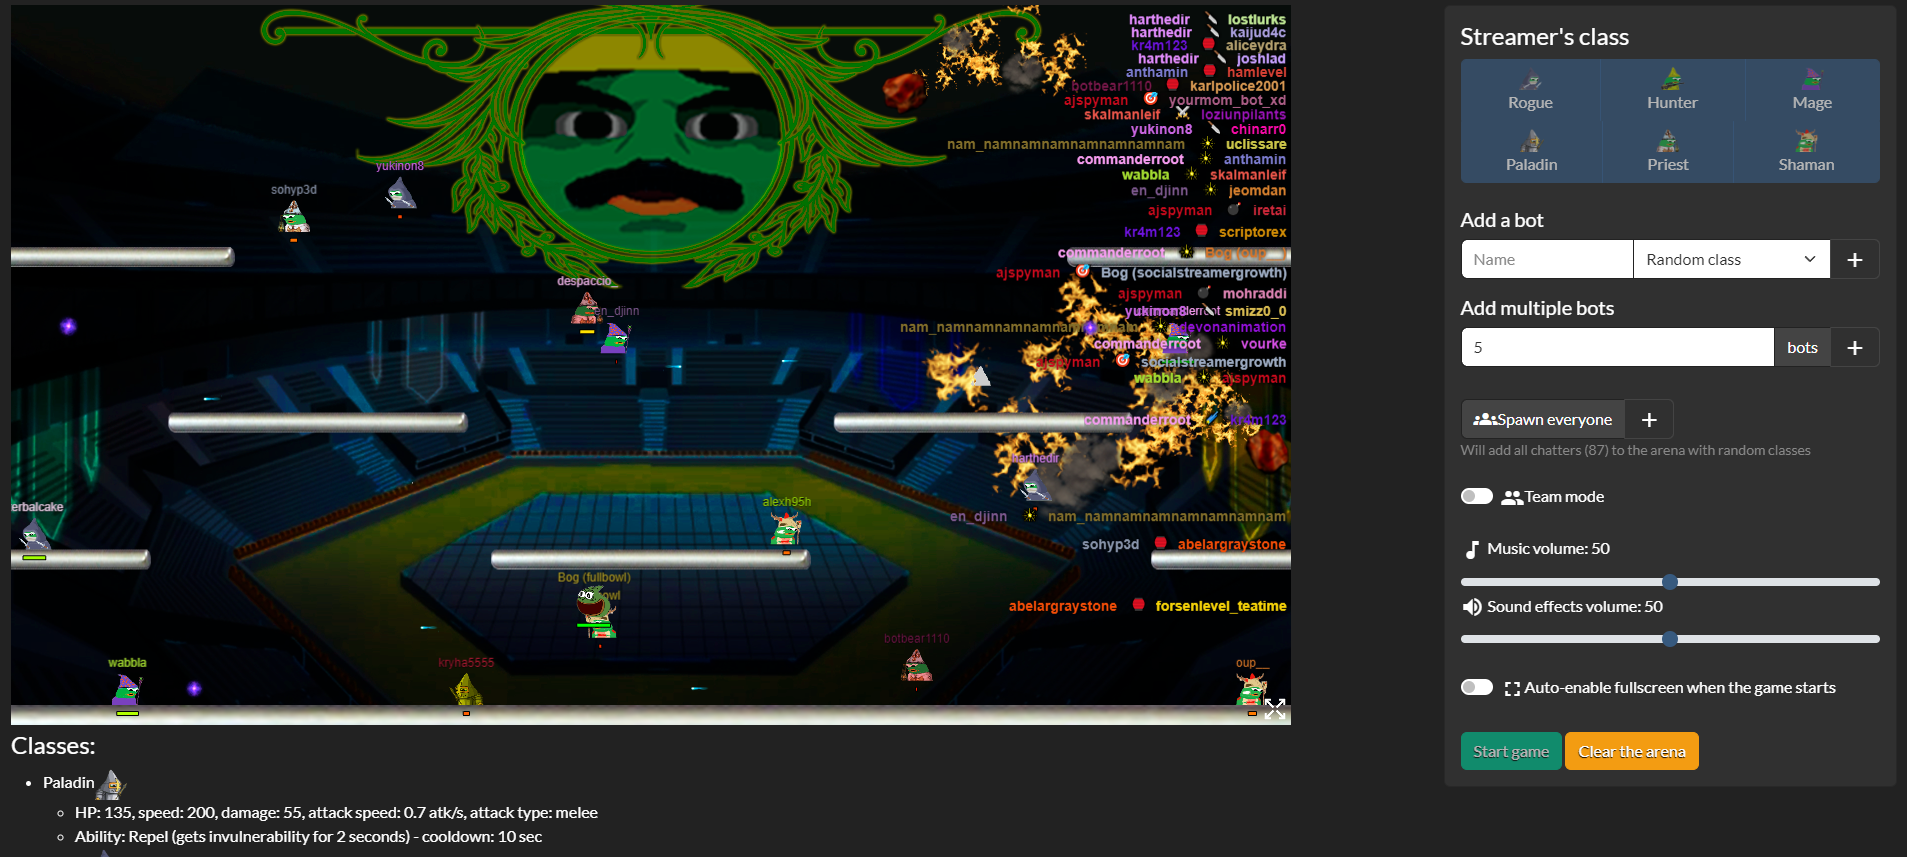
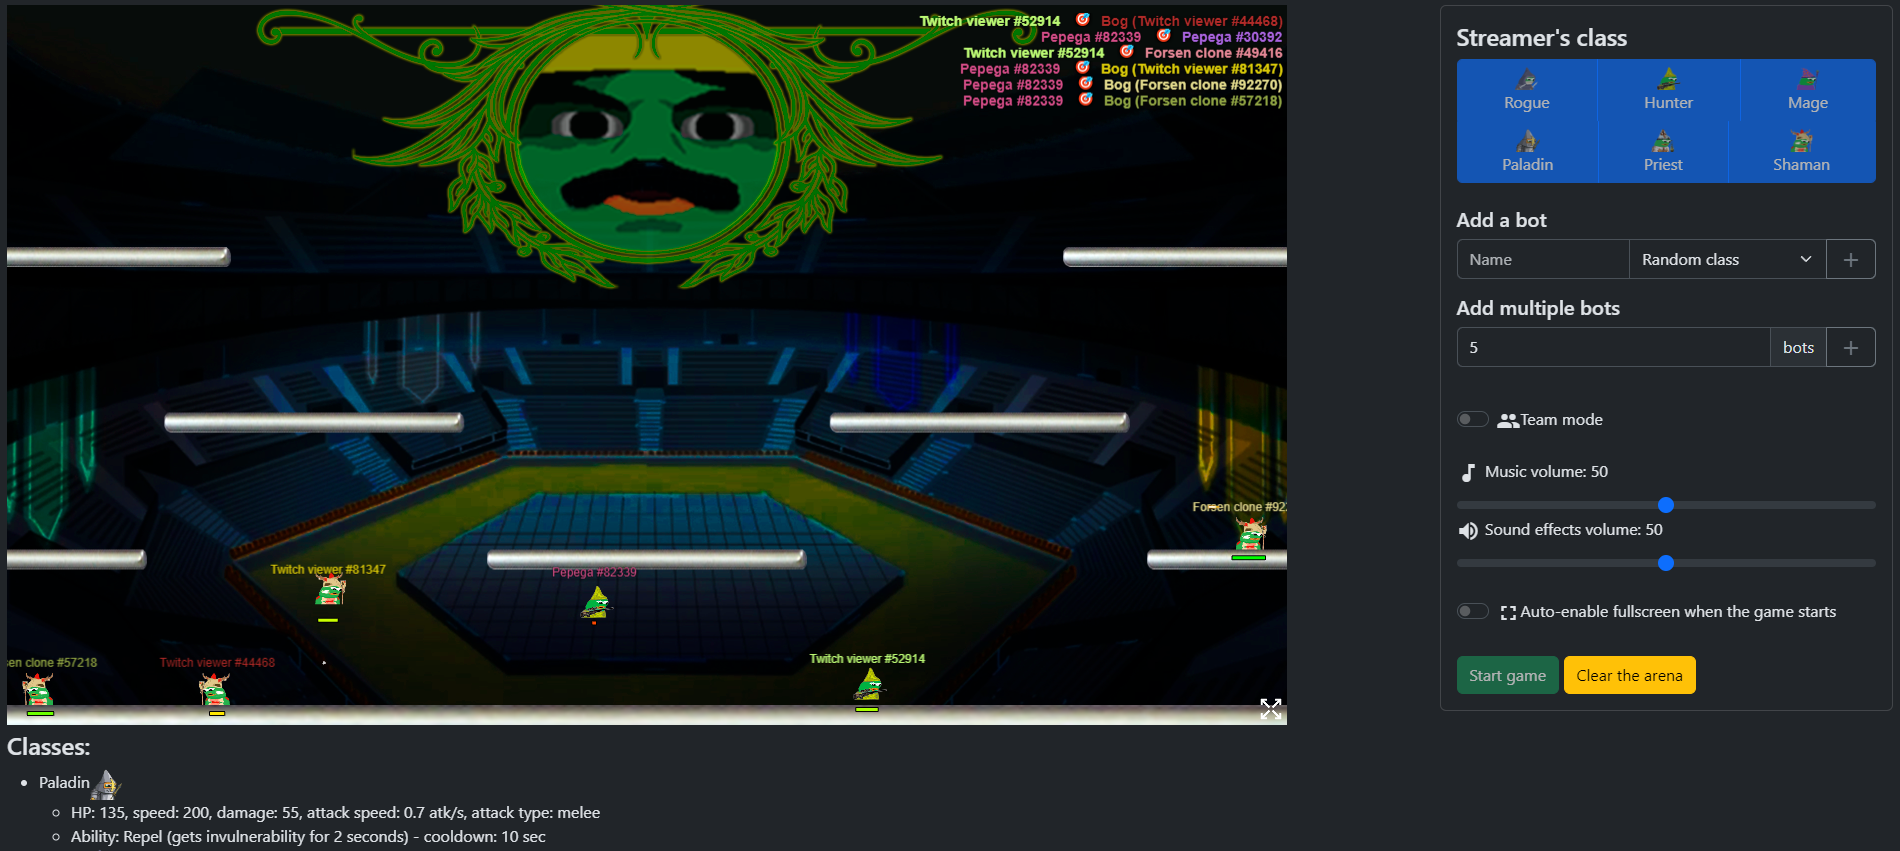
update games screenshots
also update toasts :)

diff --git a/games/donkhunt/donkhunt.min.css b/games/donkhunt/donkhunt.min.css
@@ -1,1 +1,1 @@
[2 lines of base64/hex data omitted]

diff --git a/games/shapes/shapes.min.css b/games/shapes/shapes.min.css
@@ -1,1 +1,1 @@
[2 lines of base64/hex data omitted]

diff --git a/games/connect4/connect4.min.css b/games/connect4/connect4.min.css
@@ -1,1 +1,1 @@
-body{margin-bottom:300px}#gameName{text-align:center;vertical-align:middle;margin-left:35vw}.card-img-top{cursor:pointer;width:100%;height:230px}#toastContainer{z-index:1056;position:fixed;top:1%;width:15vw}.resizable{display:inline-block;resize:both;overflow:hidden;line-height:0}.resizable img{height:100%}.custom-popover{--bs-popover-border-color:var(--bs-warning);--bs-popover-header-bg:var(--bs-warning);--bs-popover-header-color:var(--bs-white)}.tooltip.show{opacity:1}#c4chartdiv{position:relative;height:80vh;width:100%}#c4overlay{width:100%;height:100%;position:absolute}.coins{position:relative;width:700px;height:600px;background:#969696;overflow:hidden}.coin,.control{width:100px;height:100px;position:absolute;left:0;top:-100px;transition:top .2s ease-in;-moz-transition:top .2s ease-in;-webkit-transition:top .2s ease-in}.coin:before,.control:before{content:"";position:absolute;left:10px;top:10px;width:80px;height:80px;border-radius:50%;box-shadow:1px 1px 2px rgba(0,0,0,.3);-moz-box-shadow:1px 1px 2px rgba(0,0,0,.3);-webkit-box-shadow:1px 1px 1px rgba(0,0,0,.1)}.coin:after,.control:after{content:"";position:absolute;left:20px;top:20px;width:60px;height:60px;border-radius:50%;background:rgba(0,0,0,.2);box-shadow:inset 1px 1px 2px rgba(0,0,0,.3);-moz-box-shadow:inset 1px 1px 2px rgba(0,0,0,.3);-webkit-box-shadow:inset 1px 1px 2px rgba(0,0,0,.3)}.coin.row-0,.control.row-0{top:0}.coin.row-1,.control.row-1{top:100px}.coin.row-2,.control.row-2{top:200px}.coin.row-3,.control.row-3{top:300px}.coin.row-4,.control.row-4{top:400px}.coin.row-5,.control.row-5{top:500px}.coin.col-1,.control.col-1{left:100px}.coin.col-2,.control.col-2{left:200px}.coin.col-3,.control.col-3{left:300px}.coin.col-4,.control.col-4{left:400px}.coin.col-5,.control.col-5{left:500px}.coin.col-6,.control.col-6{left:600px}.coin.chat:before,.control.chat:before{background:#22b14c}.coin.streamer:before,.control.streamer:before{background:#fff200}.coin.connected:after,.control.connected:after{background:rgba(255,255,255,.6)}.control.streamer:hover{opacity:1}.control.chat{opacity:.5;top:0}.control.streamer{opacity:.5;top:0;cursor:pointer}#board>div>div.overlay>img{filter:invert(27%) sepia(9%) saturate(6191%) hue-rotate(182deg) brightness(99%) contrast(86%)}.collabel{font-size:1.5em;color:#000000;font-weight:bold}.collabel2{font-size:1.5em;color:#000000;font-weight:bold;position:absolute;margin-top:670px;margin-left:-15px}.overlay{z-index:100;position:absolute}.overlaytext{position:relative;top:50%;font-size:2vw;text-shadow:-4px 4px 4px #000000;box-shadow:none!important}.centertext{text-align:center}.blur{-webkit-filter:blur(10px) grayscale(100%);-moz-filter:blur(10px) grayscale(100%);-o-filter:blur(10px) grayscale(100%);-ms-filter:blur(10px) grayscale(100%);filter:blur(10px) grayscale(100%);position:absolute}.rack{display:inline-block;border:2px solid black}.rack *{box-sizing:border-box;-ms-box-sizing:border-box;-moz-box-sizing:border-box;-webkit-box-sizing:border-box}.controls,.message{position:relative;width:700px;height:100px;background:#aaaaaa;visibility:hidden;z-index:1000}.controls.enabled,.message.enabled{visibility:visible}.message{visibility:visible;line-height:100px;text-align:center;text-transform:uppercase;font-weight:bold;font-size:3em}.coins{position:relative;width:700px;height:600px;background:#969696;overflow:hidden}.coin,.control{width:100px;height:100px;position:absolute;left:0;top:-100px;transition:top .2s ease-in;-moz-transition:top .2s ease-in;-webkit-transition:top .2s ease-in}.coin:before,.control:before{content:"";position:absolute;left:10px;top:10px;width:80px;height:80px;border-radius:50%;box-shadow:1px 1px 2px rgba(0,0,0,.3);-moz-box-shadow:1px 1px 2px rgba(0,0,0,.3);-webkit-box-shadow:1px 1px 1px rgba(0,0,0,.1)}.coin:after,.control:after{content:"";position:absolute;left:20px;top:20px;width:60px;height:60px;border-radius:50%;background:rgba(0,0,0,.2);box-shadow:inset 1px 1px 2px rgba(0,0,0,.3);-moz-box-shadow:inset 1px 1px 2px rgba(0,0,0,.3);-webkit-box-shadow:inset 1px 1px 2px rgba(0,0,0,.3)}.coin.row-0,.control.row-0{top:0}.coin.row-1,.control.row-1{top:100px}.coin.row-2,.control.row-2{top:200px}.coin.row-3,.control.row-3{top:300px}.coin.row-4,.control.row-4{top:400px}.coin.row-5,.control.row-5{top:500px}.coin.col-1,.control.col-1{left:100px}.coin.col-2,.control.col-2{left:200px}.coin.col-3,.control.col-3{left:300px}.coin.col-4,.control.col-4{left:400px}.coin.col-5,.control.col-5{left:500px}.coin.col-6,.control.col-6{left:600px}.coin.chat:before,.control.chat:before{background:#22b14c}.coin.streamer:before,.control.streamer:before{background:#fff200}.coin.connected:after,.control.connected:after{background:rgba(255,255,255,.6)}.control.streamer:hover{opacity:1}.control.chat{opacity:.5;top:0}.control.streamer{opacity:.5;top:0;cursor:pointer}.overlay{z-index:100;position:absolute}
+body{margin-bottom:300px}#gameName{text-align:center;vertical-align:middle;margin-left:35vw}.card-img-top{cursor:pointer;width:100%;height:230px}#toastContainer{position:fixed;bottom:20px;left:20px;z-index:1056;font-weight:bold}#toastContainer>div>div{font-size:1.5em}.resizable{display:inline-block;resize:both;overflow:hidden;line-height:0}.resizable img{height:100%}.custom-popover{--bs-popover-border-color:var(--bs-warning);--bs-popover-header-bg:var(--bs-warning);--bs-popover-header-color:var(--bs-white)}.tooltip.show{opacity:1}#c4chartdiv{position:relative;height:80vh;width:100%}#c4overlay{width:100%;height:100%;position:absolute}.coins{position:relative;width:700px;height:600px;background:#969696;overflow:hidden}.coin,.control{width:100px;height:100px;position:absolute;left:0;top:-100px;transition:top .2s ease-in;-moz-transition:top .2s ease-in;-webkit-transition:top .2s ease-in}.coin:before,.control:before{content:"";position:absolute;left:10px;top:10px;width:80px;height:80px;border-radius:50%;box-shadow:1px 1px 2px rgba(0,0,0,.3);-moz-box-shadow:1px 1px 2px rgba(0,0,0,.3);-webkit-box-shadow:1px 1px 1px rgba(0,0,0,.1)}.coin:after,.control:after{content:"";position:absolute;left:20px;top:20px;width:60px;height:60px;border-radius:50%;background:rgba(0,0,0,.2);box-shadow:inset 1px 1px 2px rgba(0,0,0,.3);-moz-box-shadow:inset 1px 1px 2px rgba(0,0,0,.3);-webkit-box-shadow:inset 1px 1px 2px rgba(0,0,0,.3)}.coin.row-0,.control.row-0{top:0}.coin.row-1,.control.row-1{top:100px}.coin.row-2,.control.row-2{top:200px}.coin.row-3,.control.row-3{top:300px}.coin.row-4,.control.row-4{top:400px}.coin.row-5,.control.row-5{top:500px}.coin.col-1,.control.col-1{left:100px}.coin.col-2,.control.col-2{left:200px}.coin.col-3,.control.col-3{left:300px}.coin.col-4,.control.col-4{left:400px}.coin.col-5,.control.col-5{left:500px}.coin.col-6,.control.col-6{left:600px}.coin.chat:before,.control.chat:before{background:#22b14c}.coin.streamer:before,.control.streamer:before{background:#fff200}.coin.connected:after,.control.connected:after{background:rgba(255,255,255,.6)}.control.streamer:hover{opacity:1}.control.chat{opacity:.5;top:0}.control.streamer{opacity:.5;top:0;cursor:pointer}#board>div>div.overlay>img{filter:invert(27%) sepia(9%) saturate(6191%) hue-rotate(182deg) brightness(99%) contrast(86%)}.collabel{font-size:1.5em;color:#000000;font-weight:bold}.collabel2{font-size:1.5em;color:#000000;font-weight:bold;position:absolute;margin-top:670px;margin-left:-15px}.overlay{z-index:100;position:absolute}.overlaytext{position:relative;top:50%;font-size:2vw;text-shadow:-4px 4px 4px #000000;box-shadow:none!important}.centertext{text-align:center}.blur{-webkit-filter:blur(10px) grayscale(100%);-moz-filter:blur(10px) grayscale(100%);-o-filter:blur(10px) grayscale(100%);-ms-filter:blur(10px) grayscale(100%);filter:blur(10px) grayscale(100%);position:absolute}.rack{display:inline-block;border:2px solid black}.rack *{box-sizing:border-box;-ms-box-sizing:border-box;-moz-box-sizing:border-box;-webkit-box-sizing:border-box}.controls,.message{position:relative;width:700px;height:100px;background:#aaaaaa;visibility:hidden;z-index:1000}.controls.enabled,.message.enabled{visibility:visible}.message{visibility:visible;line-height:100px;text-align:center;text-transform:uppercase;font-weight:bold;font-size:3em}.coins{position:relative;width:700px;height:600px;background:#969696;overflow:hidden}.coin,.control{width:100px;height:100px;position:absolute;left:0;top:-100px;transition:top .2s ease-in;-moz-transition:top .2s ease-in;-webkit-transition:top .2s ease-in}.coin:before,.control:before{content:"";position:absolute;left:10px;top:10px;width:80px;height:80px;border-radius:50%;box-shadow:1px 1px 2px rgba(0,0,0,.3);-moz-box-shadow:1px 1px 2px rgba(0,0,0,.3);-webkit-box-shadow:1px 1px 1px rgba(0,0,0,.1)}.coin:after,.control:after{content:"";position:absolute;left:20px;top:20px;width:60px;height:60px;border-radius:50%;background:rgba(0,0,0,.2);box-shadow:inset 1px 1px 2px rgba(0,0,0,.3);-moz-box-shadow:inset 1px 1px 2px rgba(0,0,0,.3);-webkit-box-shadow:inset 1px 1px 2px rgba(0,0,0,.3)}.coin.row-0,.control.row-0{top:0}.coin.row-1,.control.row-1{top:100px}.coin.row-2,.control.row-2{top:200px}.coin.row-3,.control.row-3{top:300px}.coin.row-4,.control.row-4{top:400px}.coin.row-5,.control.row-5{top:500px}.coin.col-1,.control.col-1{left:100px}.coin.col-2,.control.col-2{left:200px}.coin.col-3,.control.col-3{left:300px}.coin.col-4,.control.col-4{left:400px}.coin.col-5,.control.col-5{left:500px}.coin.col-6,.control.col-6{left:600px}.coin.chat:before,.control.chat:before{background:#22b14c}.coin.streamer:before,.control.streamer:before{background:#fff200}.coin.connected:after,.control.connected:after{background:rgba(255,255,255,.6)}.control.streamer:hover{opacity:1}.control.chat{opacity:.5;top:0}.control.streamer{opacity:.5;top:0;cursor:pointer}.overlay{z-index:100;position:absolute}

diff --git a/games/nim/nim.min.css b/games/nim/nim.min.css
@@ -1,1 +1,1 @@
[2 lines of base64/hex data omitted]

diff --git a/games/tictactoe/tictactoe.min.css b/games/tictactoe/tictactoe.min.css
@@ -1,1 +1,1 @@
-body{margin-bottom:300px}#gameName{text-align:center;vertical-align:middle;margin-left:35vw}.card-img-top{cursor:pointer;width:100%;height:230px}#toastContainer{z-index:1056;position:fixed;top:1%;width:15vw}.resizable{display:inline-block;resize:both;overflow:hidden;line-height:0}.resizable img{height:100%}.custom-popover{--bs-popover-border-color:var(--bs-warning);--bs-popover-header-bg:var(--bs-warning);--bs-popover-header-color:var(--bs-white)}.tooltip.show{opacity:1}#tttchartdiv{position:relative;height:80vh;width:100%}#tttoverlay{width:100%;height:100%;position:absolute}.centertext{text-align:center}.blur{-webkit-filter:blur(10px) grayscale(100%);-moz-filter:blur(10px) grayscale(100%);-o-filter:blur(10px) grayscale(100%);-ms-filter:blur(10px) grayscale(100%);filter:blur(10px) grayscale(100%);position:absolute}.text-shadow{text-shadow:0 0 4px #000000}.wrapper{width:666px;padding:30px;box-shadow:1px 4px 8px #000000;position:relative;background-color:#6b6b6b}.rows{height:200px;width:100%}.row2{height:206px;border-top:6px solid black;border-bottom:6px solid black}.square{width:200px;height:200px;float:left;line-height:200px;text-align:center;font-size:100px;font-weight:bold}.cursorpointer{cursor:pointer}.cursordefault{cursor:default}.square-01,.square-04,.square-07{width:206px;border-left:6px solid black;border-right:6px solid black}img.icon{width:1.3em;height:auto;vertical-align:middle}
+body{margin-bottom:300px}#gameName{text-align:center;vertical-align:middle;margin-left:35vw}.card-img-top{cursor:pointer;width:100%;height:230px}#toastContainer{position:fixed;bottom:20px;left:20px;z-index:1056;font-weight:bold}#toastContainer>div>div{font-size:1.5em}.resizable{display:inline-block;resize:both;overflow:hidden;line-height:0}.resizable img{height:100%}.custom-popover{--bs-popover-border-color:var(--bs-warning);--bs-popover-header-bg:var(--bs-warning);--bs-popover-header-color:var(--bs-white)}.tooltip.show{opacity:1}#tttchartdiv{position:relative;height:80vh;width:100%}#tttoverlay{width:100%;height:100%;position:absolute}.centertext{text-align:center}.blur{-webkit-filter:blur(10px) grayscale(100%);-moz-filter:blur(10px) grayscale(100%);-o-filter:blur(10px) grayscale(100%);-ms-filter:blur(10px) grayscale(100%);filter:blur(10px) grayscale(100%);position:absolute}.text-shadow{text-shadow:0 0 4px #000000}.wrapper{width:666px;padding:30px;box-shadow:1px 4px 8px #000000;position:relative;background-color:#6b6b6b}.rows{height:200px;width:100%}.row2{height:206px;border-top:6px solid black;border-bottom:6px solid black}.square{width:200px;height:200px;float:left;line-height:200px;text-align:center;font-size:100px;font-weight:bold}.cursorpointer{cursor:pointer}.cursordefault{cursor:default}.square-01,.square-04,.square-07{width:206px;border-left:6px solid black;border-right:6px solid black}img.icon{width:1.3em;height:auto;vertical-align:middle}

diff --git a/games/arena/arena.min.css b/games/arena/arena.min.css
@@ -1,1 +1,1 @@
-body{margin-bottom:300px}#gameName{text-align:center;vertical-align:middle;margin-left:35vw}.card-img-top{cursor:pointer;width:100%;height:230px}#toastContainer{z-index:1056;position:fixed;top:1%;width:15vw}.resizable{display:inline-block;resize:both;overflow:hidden;line-height:0}.resizable img{height:100%}.custom-popover{--bs-popover-border-color:var(--bs-warning);--bs-popover-header-bg:var(--bs-warning);--bs-popover-header-color:var(--bs-white)}.tooltip.show{opacity:1}div.main-part{flex:1 0 auto;display:flex;flex-flow:column nowrap}div#controls{display:flex;flex-flow:column nowrap}div.control-line{flex:1 0 auto;display:inline-block}div#killfeed{min-width:160px;width:100%;max-width:calc(100% - 1280px);display:flex;flex-flow:column nowrap;align-items:flex-end;max-height:30vh;overflow-y:auto;word-wrap:break-word}div.killfeed-line{padding:.3em .1em;border:1px solid silver;border-radius:.1em;width:90%;text-align:right;background:rgba(255,0,0,.1);font-weight:bold}#bStartGame,#bCleanUp{margin-top:5px}
+body{margin-bottom:300px}#gameName{text-align:center;vertical-align:middle;margin-left:35vw}.card-img-top{cursor:pointer;width:100%;height:230px}#toastContainer{position:fixed;bottom:20px;left:20px;z-index:1056;font-weight:bold}#toastContainer>div>div{font-size:1.5em}.resizable{display:inline-block;resize:both;overflow:hidden;line-height:0}.resizable img{height:100%}.custom-popover{--bs-popover-border-color:var(--bs-warning);--bs-popover-header-bg:var(--bs-warning);--bs-popover-header-color:var(--bs-white)}.tooltip.show{opacity:1}div.main-part{flex:1 0 auto;display:flex;flex-flow:column nowrap}div#controls{display:flex;flex-flow:column nowrap}div.control-line{flex:1 0 auto;display:inline-block}div#killfeed{min-width:160px;width:100%;max-width:calc(100% - 1280px);display:flex;flex-flow:column nowrap;align-items:flex-end;max-height:30vh;overflow-y:auto;word-wrap:break-word}div.killfeed-line{padding:.3em .1em;border:1px solid silver;border-radius:.1em;width:90%;text-align:right;background:rgba(255,0,0,.1);font-weight:bold}#bStartGame,#bCleanUp{margin-top:5px}

diff --git a/games/emotes/emotes.min.css b/games/emotes/emotes.min.css
@@ -1,1 +1,1 @@
-body{margin-bottom:300px}#gameName{text-align:center;vertical-align:middle;margin-left:35vw}.card-img-top{cursor:pointer;width:100%;height:230px}#toastContainer{z-index:1056;position:fixed;top:1%;width:15vw}.resizable{display:inline-block;resize:both;overflow:hidden;line-height:0}.resizable img{height:100%}.custom-popover{--bs-popover-border-color:var(--bs-warning);--bs-popover-header-bg:var(--bs-warning);--bs-popover-header-color:var(--bs-white)}.tooltip.show{opacity:1}.emote{margin:5px;width:fit-content;display:inline-block;white-space:nowrap;overflow:hidden;text-overflow:ellipsis;max-width:250px}.emote>img{min-height:112px;max-width:250px}#timebar{background:green;height:20px}
+body{margin-bottom:300px}#gameName{text-align:center;vertical-align:middle;margin-left:35vw}.card-img-top{cursor:pointer;width:100%;height:230px}#toastContainer{position:fixed;bottom:20px;left:20px;z-index:1056;font-weight:bold}#toastContainer>div>div{font-size:1.5em}.resizable{display:inline-block;resize:both;overflow:hidden;line-height:0}.resizable img{height:100%}.custom-popover{--bs-popover-border-color:var(--bs-warning);--bs-popover-header-bg:var(--bs-warning);--bs-popover-header-color:var(--bs-white)}.tooltip.show{opacity:1}.emote{margin:5px;width:fit-content;display:inline-block;white-space:nowrap;overflow:hidden;text-overflow:ellipsis;max-width:250px}.emote>img{min-height:112px;max-width:250px}#timebar{background:green;height:20px}

diff --git a/games/arena/arena.css b/games/arena/arena.css
@@ -15,10 +15,15 @@ body {
 }
 
 #toastContainer {
-  z-index: 1056;
   position: fixed;
-  top: 1%;
-  width: 15vw;
+  bottom: 20px;
+  left: 20px;
+  z-index: 1056;
+  font-weight: bold;
+}
+
+#toastContainer > div > div {
+  font-size: 1.5em;
 }
 
 .resizable {

diff --git a/games/connect4/connect4.css b/games/connect4/connect4.css
@@ -15,10 +15,15 @@ body {
 }
 
 #toastContainer {
-  z-index: 1056;
   position: fixed;
-  top: 1%;
-  width: 15vw;
+  bottom: 20px;
+  left: 20px;
+  z-index: 1056;
+  font-weight: bold;
+}
+
+#toastContainer > div > div {
+  font-size: 1.5em;
 }
 
 .resizable {

diff --git a/games/donkhunt/donkhunt.css b/games/donkhunt/donkhunt.css
@@ -15,10 +15,15 @@ body {
 }
 
 #toastContainer {
-  z-index: 1056;
   position: fixed;
-  top: 1%;
-  width: 15vw;
+  bottom: 20px;
+  left: 20px;
+  z-index: 1056;
+  font-weight: bold;
+}
+
+#toastContainer > div > div {
+  font-size: 1.5em;
 }
 
 .resizable {

diff --git a/games/emotes/emotes.css b/games/emotes/emotes.css
@@ -15,10 +15,15 @@ body {
 }
 
 #toastContainer {
-  z-index: 1056;
   position: fixed;
-  top: 1%;
-  width: 15vw;
+  bottom: 20px;
+  left: 20px;
+  z-index: 1056;
+  font-weight: bold;
+}
+
+#toastContainer > div > div {
+  font-size: 1.5em;
 }
 
 .resizable {

diff --git a/games/nim/nim.css b/games/nim/nim.css
@@ -15,10 +15,15 @@ body {
 }
 
 #toastContainer {
-  z-index: 1056;
   position: fixed;
-  top: 1%;
-  width: 15vw;
+  bottom: 20px;
+  left: 20px;
+  z-index: 1056;
+  font-weight: bold;
+}
+
+#toastContainer > div > div {
+  font-size: 1.5em;
 }
 
 .resizable {
